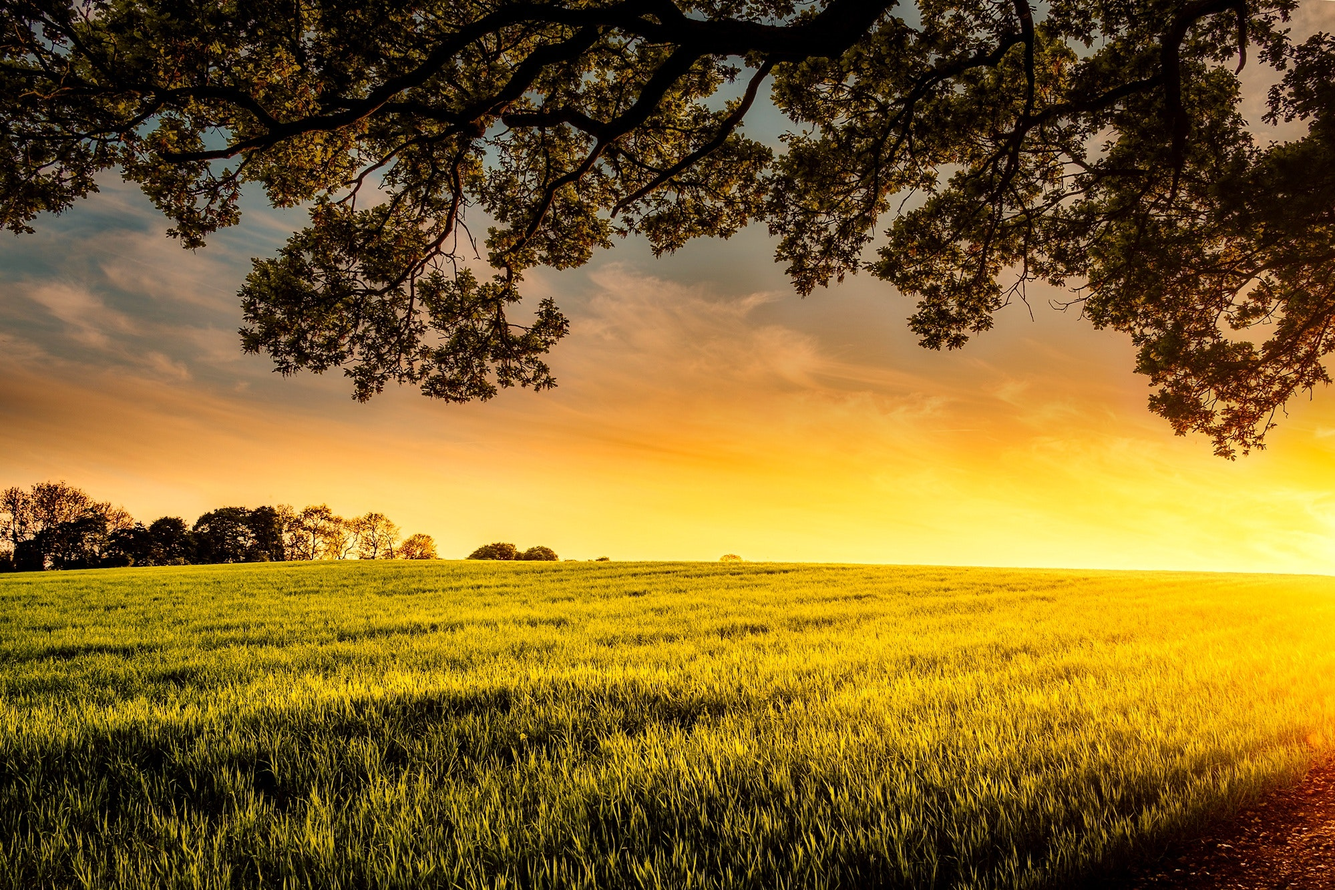
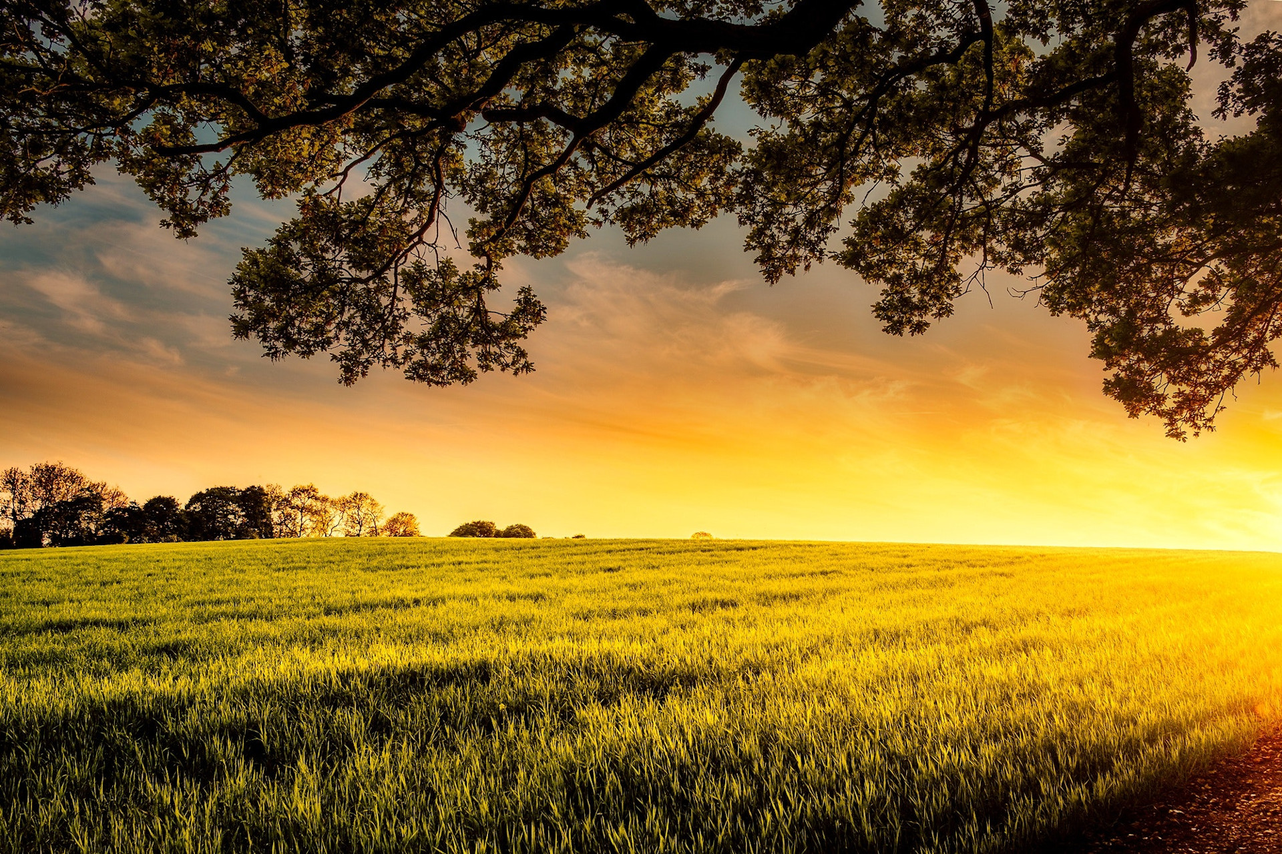
Thinned and made webkit scrollbar easier to see. Scaled bkgd images down to a width of 1920px.

diff --git a/styles/main.css b/styles/main.css
@@ -70,12 +70,12 @@ body {
 /* Scrollbar: make it visible all the time */
 ::-webkit-scrollbar {
     -webkit-appearance: none;
-    width: 10px;
+    width: 4px;
 }
   
   ::-webkit-scrollbar-thumb {
-    border-radius: 5px;
-    background-color: rgba(0,0,0,.5);
+    border-radius: 2px;
+    background-color: rgba(0,0,0,.9);
     -webkit-box-shadow: 0 0 1px rgba(255,255,255,.5);
     box-shadow: 0 0 1px rgba(255,255,255,.5);
 }
